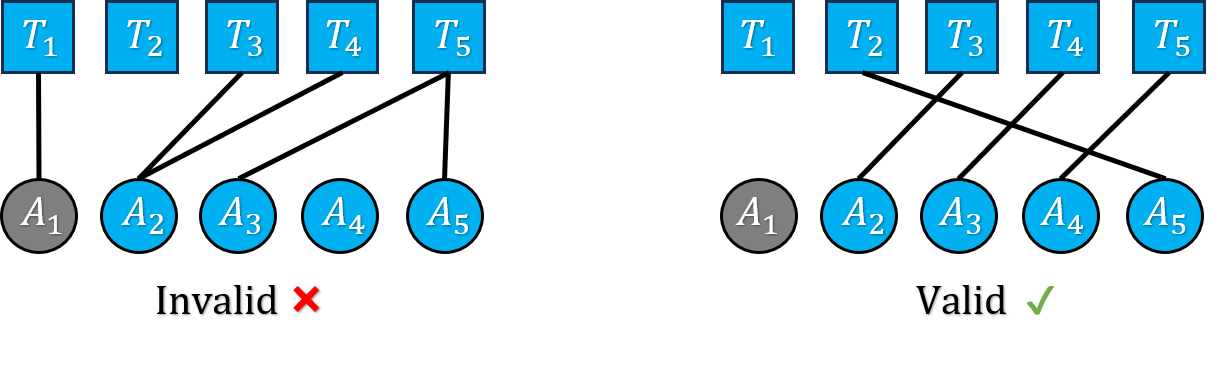
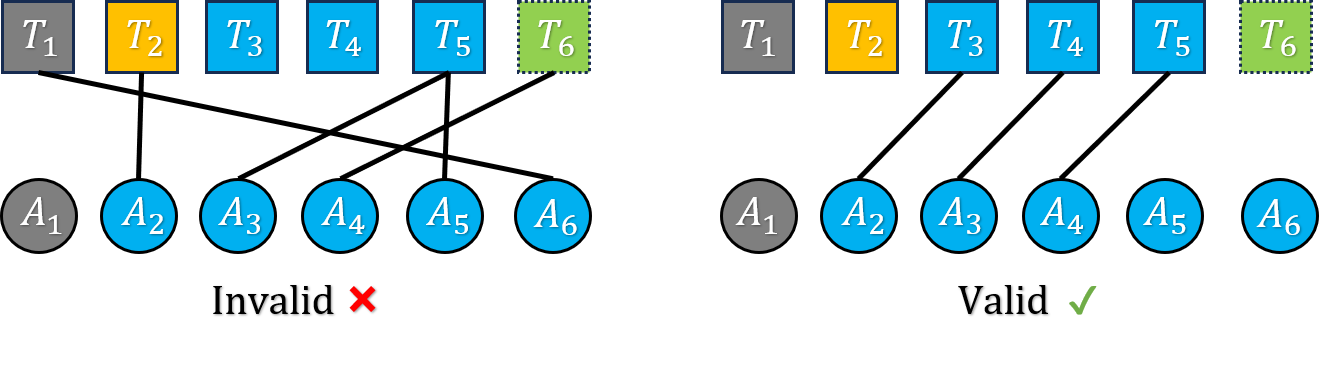
valid schedule

diff --git a/Competition Setup.md b/Competition Setup.md
@@ -156,8 +156,11 @@ specify a valid next task (or no task) for each robot at each timestep.
 An assignment is valid if every assigned task is a revealed task which has 
 not been previously opened or closed by another robot. 
 
-Below is an example of task assignments. The top row represents the task pool, containing revealed tasks that are unfinished and unassigned, while the second row shows the agents. Tasks and agents shaded in gray indicate that the task has already been assigned or completed, and that the agent is currently working on a task that is not yet finished. The left side illustrates an invalid assignment due to the following issues: (1) Agent A2 is assigned two tasks simultaneously; (2) Task T5 is assigned to both agents A3 and A5; (3) Agent A1 is assigned a new task before completing the current one.
+Below is an example of task assignments. The top row represents the task pool, which contains six tasks. Task T1, shaded in gray, is finished. Task T2, shaded in orange, is assigned to an agent but remains unfinished. Tasks T3, T4, and T5, shaded in cyan, are revealed but unassigned, while task T6, shaded in green, is unrevealed. The second row shows the agents, with gray-shaded agents currently working on unfinished tasks and cyan-shaded agents available for assignment. The left side illustrates an invalid assignment due to the following issues:
 
+1. Task T5 is assigned to both agents A3 and A5, but each task can only be assigned to one agent.
+2. Task T2, which is already assigned to another agent but not yet finished, is incorrectly assigned to agent A2.
+3. Task T6 is assigned to an agent, which is invalid because tasks that are already completed, unrevealed, or nonexistent cannot be assigned.
 <div style="text-align: center;">
    <img src="./external_page_resource/images/task_assignment_example.png" alt="description" style="max-width: 80%; height: auto;">
 </div>
